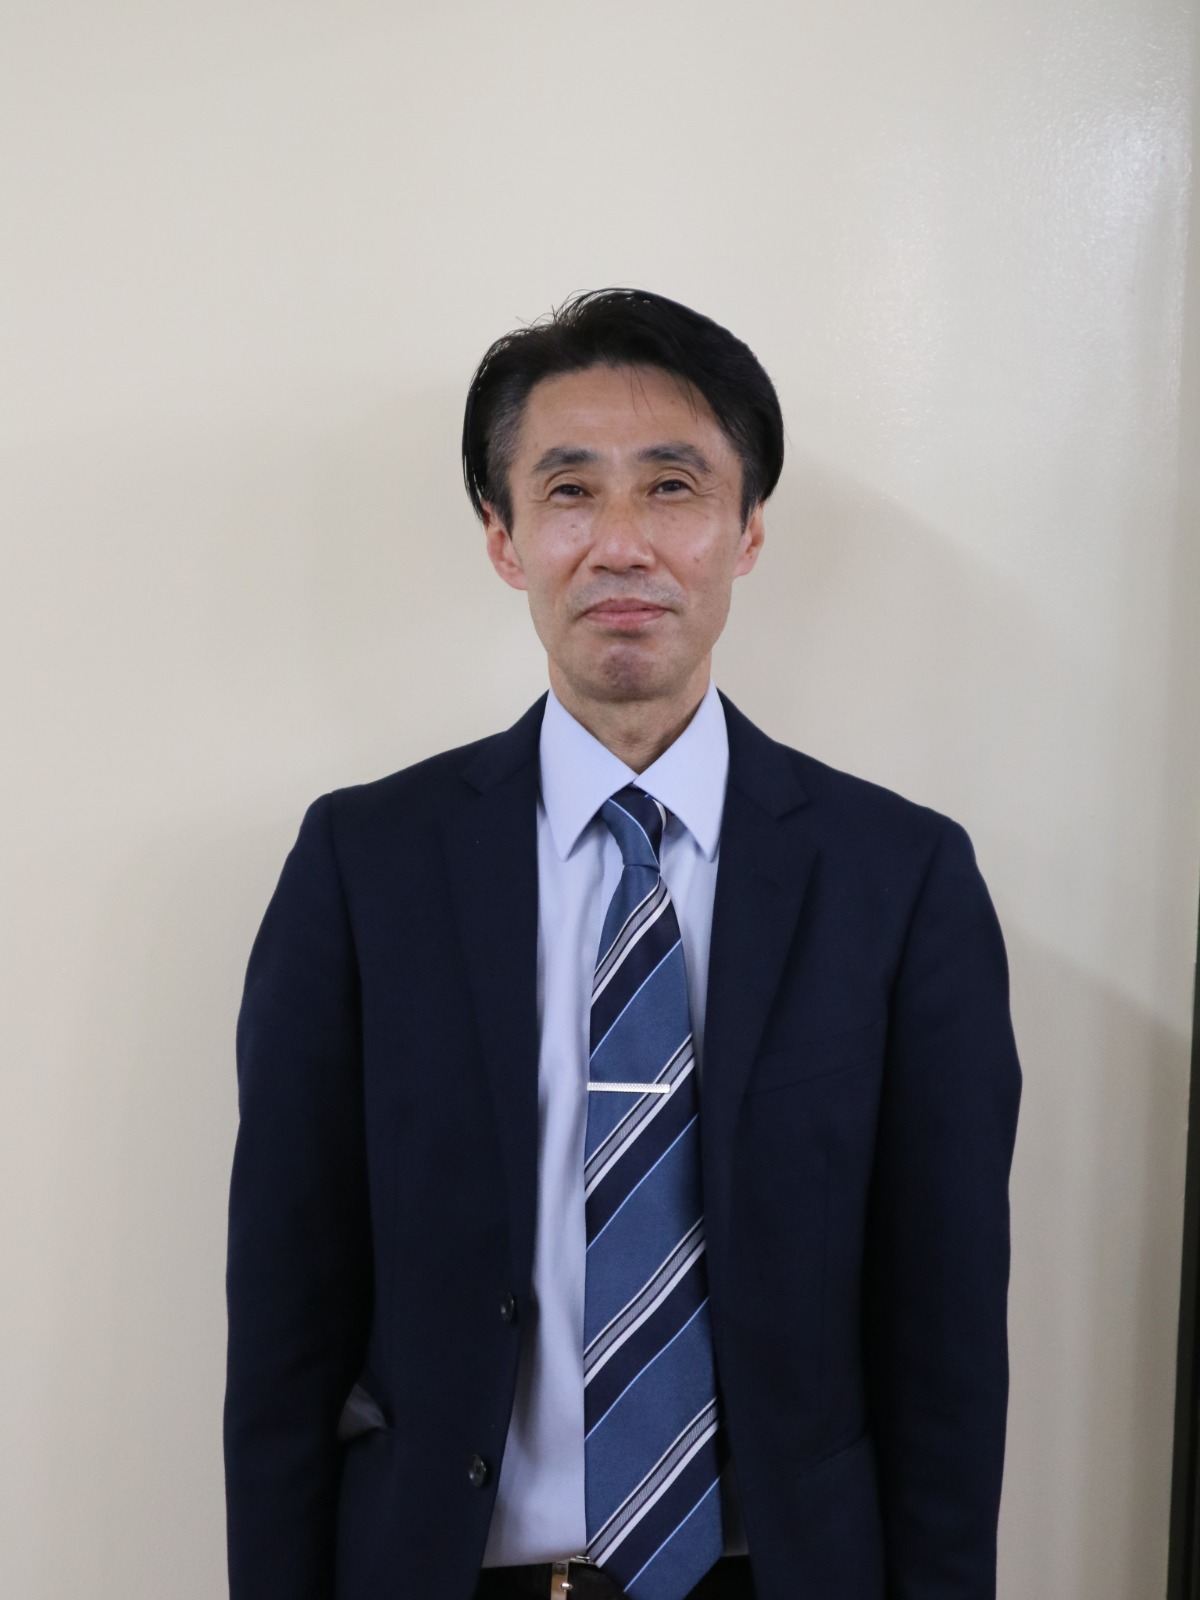
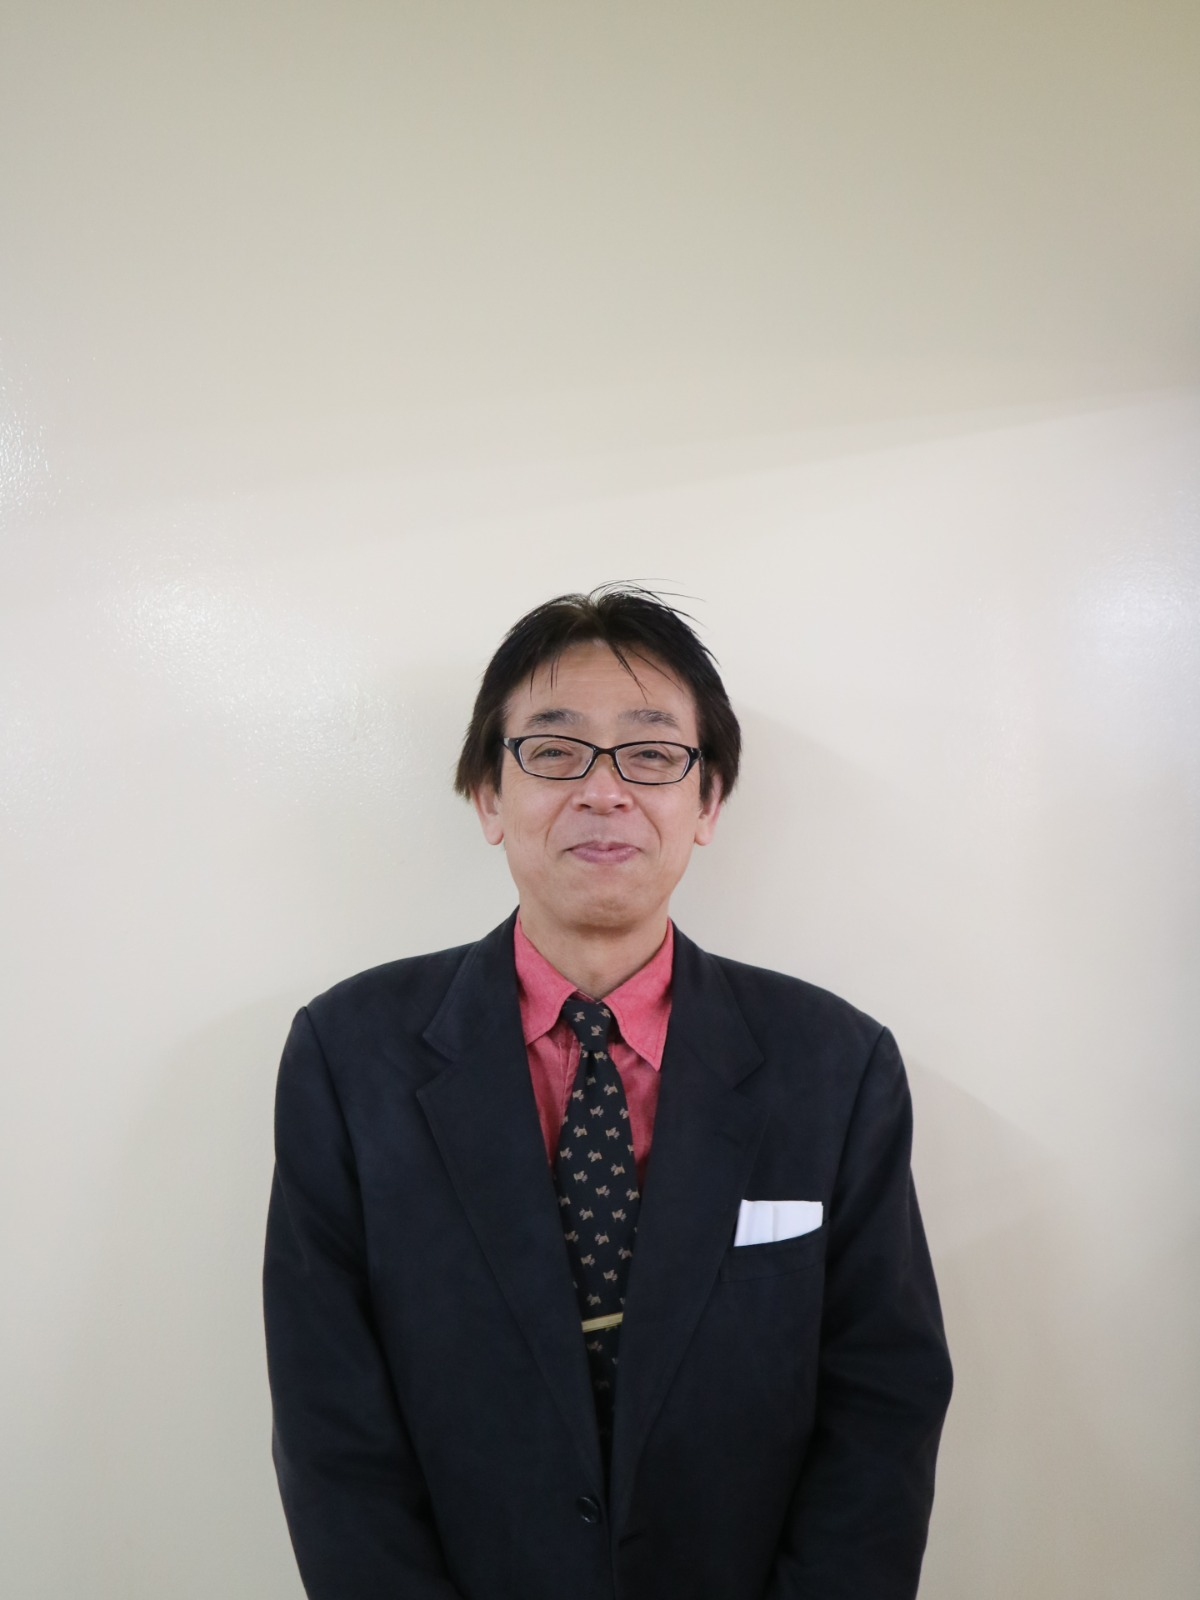
cloned repository

diff --git a/src/scenes/About.jsx b/src/scenes/About.jsx
@@ -51,10 +51,10 @@ const About = () => {
           <div className='font-poppins font-extrabold text-white text-center text-[25px] sm:pt-4 pt-2'>DIRECTOR</div>
           <div className='flex sm:flex-row flex-col-reverse flex-1 justify-center items-center text-center sm:px-10 px-2 sm:py-10 py-5 rounded'>
             <div className='flex flex-col sm:w-2/3'>
-              <h6 className="font-poppins font-semibold xs:text-[22px] text-[15px] xs:leading-[53px] leading-[40px] text-white">Junichi Nishite</h6>
+              <h6 className="font-poppins font-semibold xs:text-[22px] text-[15px] xs:leading-[53px] leading-[40px] text-white">Otsuji Hideki</h6>
               <div className='flex justify-center'>
                 <p className="font-poppins font-normal xs:text-[15px] text-[12px] xs:leading-[26px] leading-[21px] text-gradient text-start">
-                  Namaste, My name is Junichi Nishite, Director of Mirai International Education <br className='md:flex hidden'/>
+                  Namaste, My name is Otsuji Hideki, Director of Mirai International Education <br className='md:flex hidden'/>
                   Center. Japan is an island country surrounded by the sea on all sides, and <br className='md:flex hidden'/>
                   cultures that have been introduced from other countries have taken root in a <br className='md:flex hidden'/>
                   unique way. Because Japanese have a long tradition of not interacting with <br className='md:flex hidden'/>
